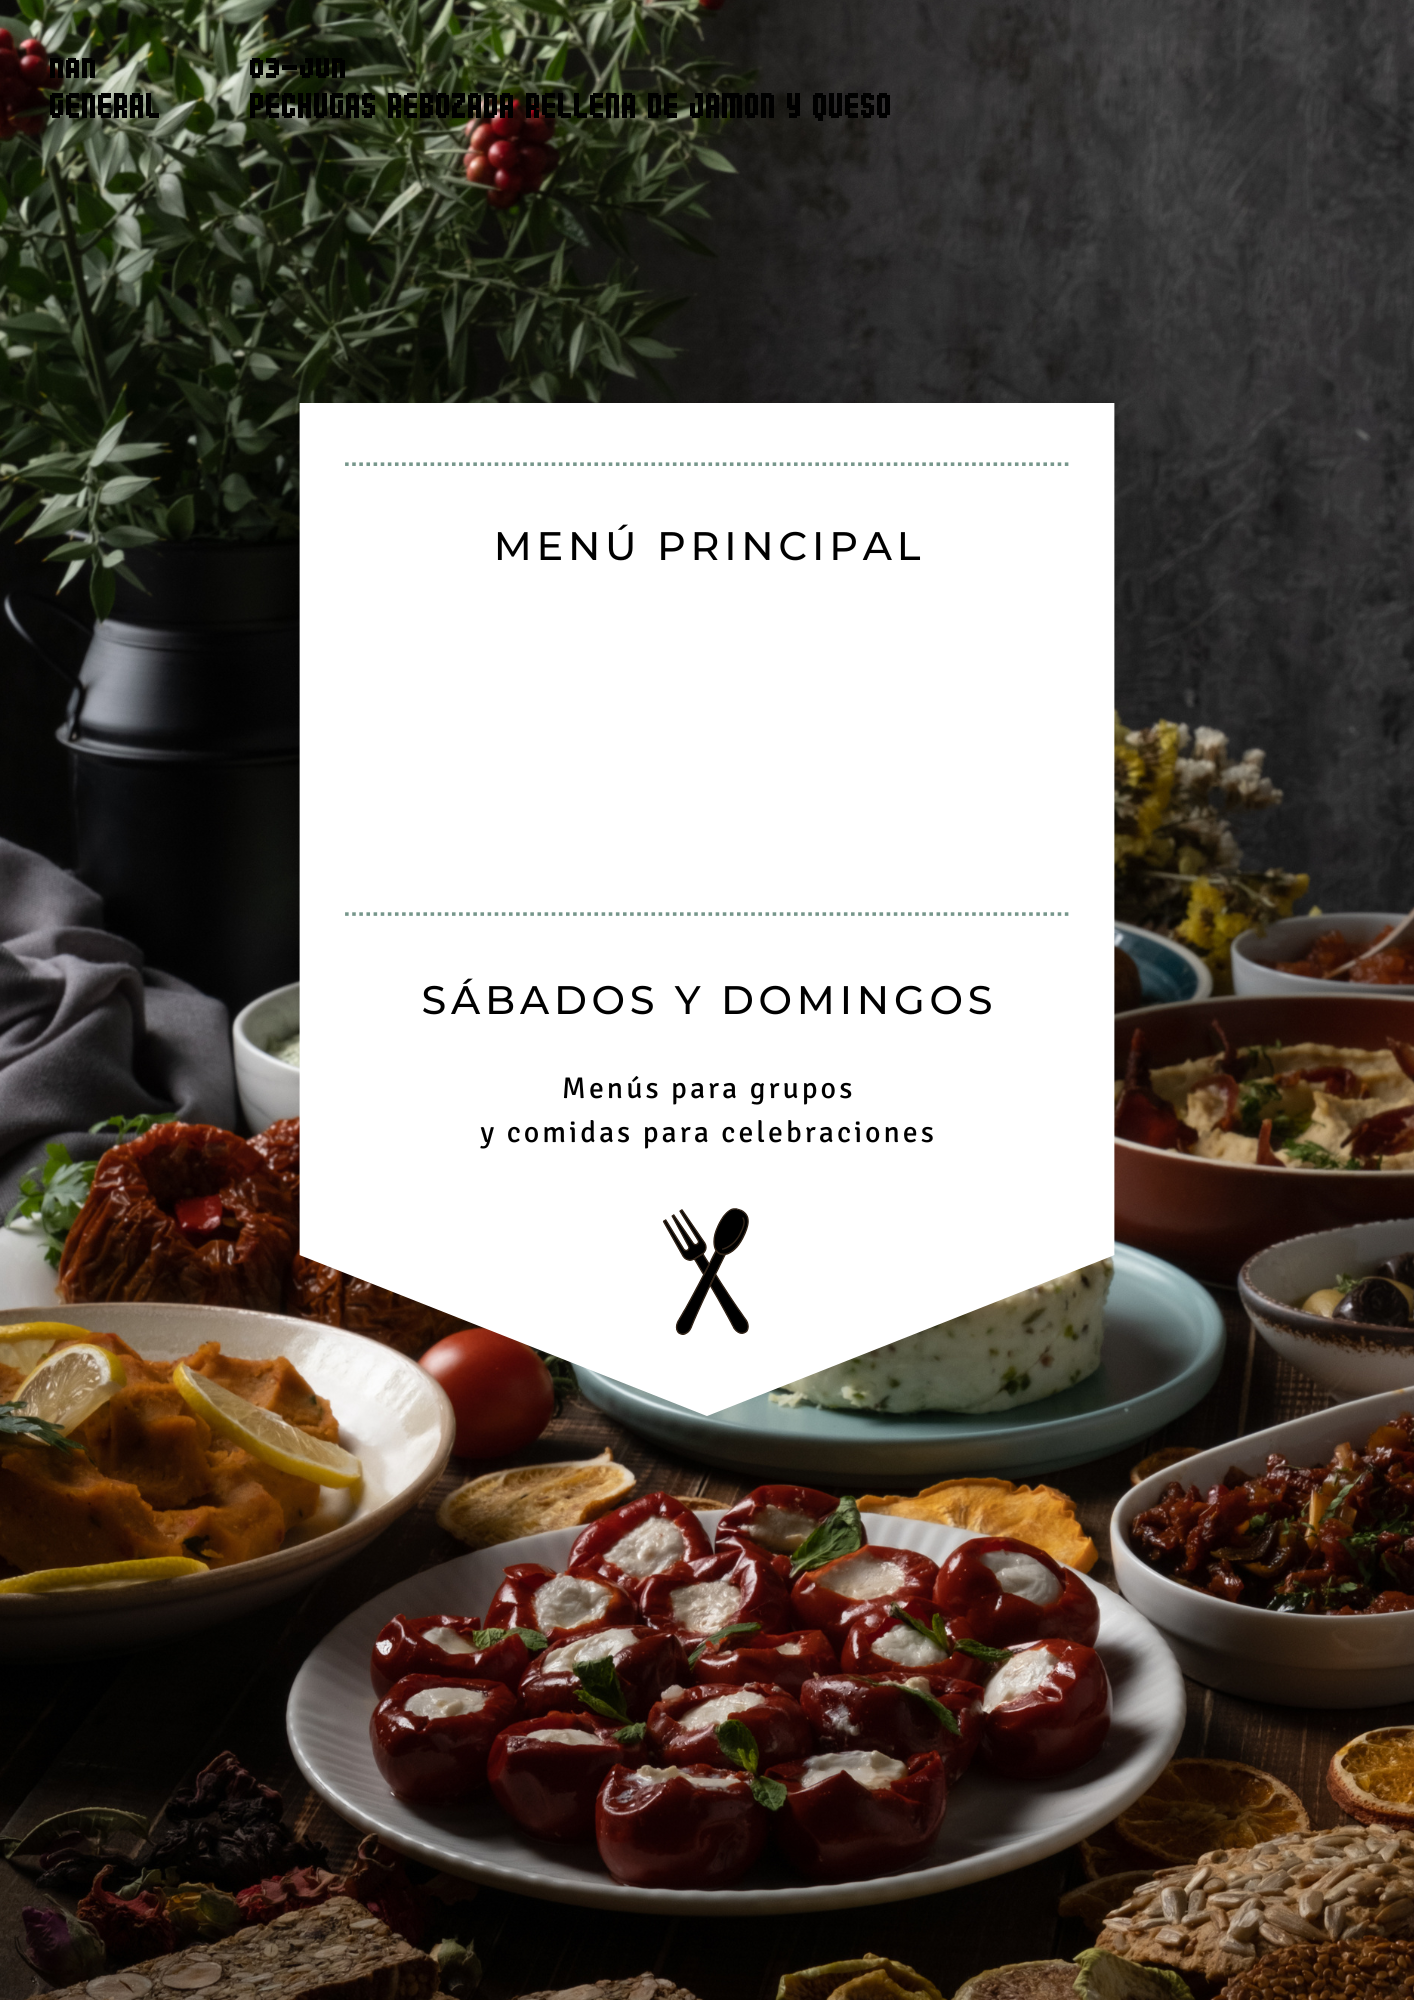
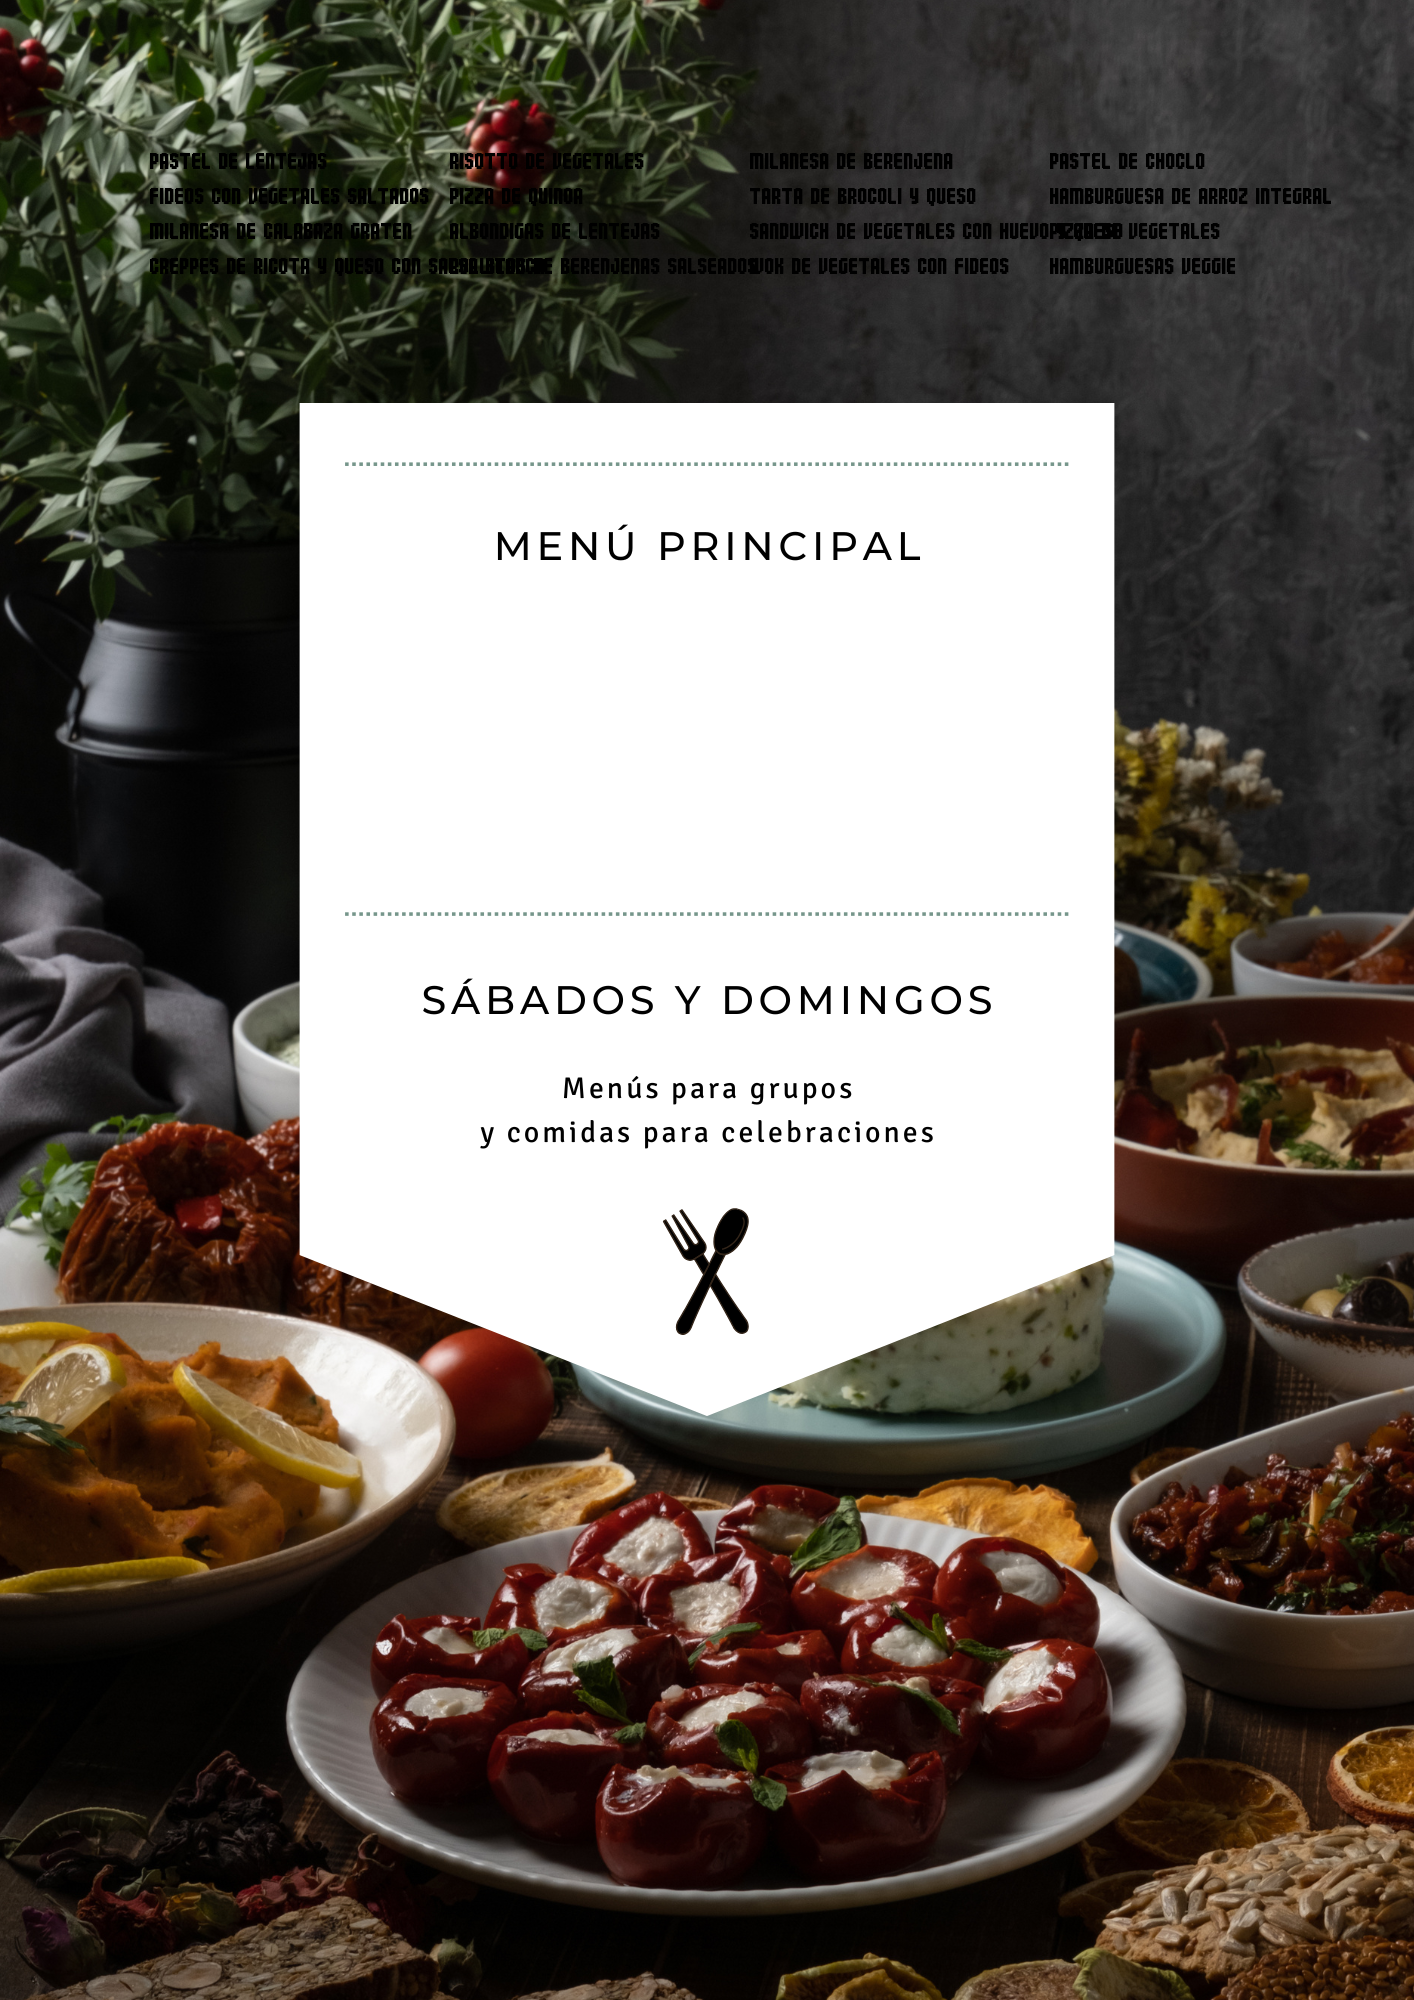
va_mejorando

Changed region(s): [[0.0311, 0.031, 0.9335, 0.155]]

diff --git a/otro.py b/otro.py
@@ -1,0 +1,37 @@
+import pandas as pd
+from PIL import Image, ImageDraw, ImageFont
+
+# Paso 1: Leer el archivo Excel
+excel_file = 'planilla.xlsx'
+df = pd.read_excel(excel_file)
+
+# Selección de filas y columnas específicas
+filas_a_extraer = [3, 9, 15, 21]  # Lista de filas que quieres extraer
+columnas_a_extraer = [1, 2, 3, 4]  # Lista de columnas que quieres extraer
+datos_a_colocar = df.iloc[filas_a_extraer, columnas_a_extraer]
+
+# Paso 2: Configuración inicial de la imagen
+imagen_base = 'menu.png'
+img = Image.open(imagen_base)
+draw = ImageDraw.Draw(img)
+font_size = 20  # Reduce el tamaño de la fuente
+fuente = ImageFont.truetype('fuente.ttf', size=font_size)
+
+# Posiciones iniciales y espaciado automático
+x_inicial, y_inicial = 150, 150  # Ajusta estas coordenadas para centrar el texto en el área en blanco
+espacio_vertical = font_size + 15  # Aumenta el espacio entre filas
+espacio_horizontal = 300           # Aumenta el espacio entre columnas
+
+# Generar y dibujar texto automáticamente
+for i, fila in enumerate(datos_a_colocar.itertuples(index=False)):
+    for j, valor in enumerate(fila):
+        # Calcular posiciones basadas en `i` y `j`
+        x = x_inicial + j * espacio_horizontal
+        y = y_inicial + i * espacio_vertical
+        draw.text((x, y), str(valor), fill="black", font=fuente)
+
+# Guardar la imagen final
+nueva_imagen = 'nueva_imagen.png'
+img.save(nueva_imagen)
+
+print(f"Imagen guardada como {nueva_imagen}")

diff --git a/borrador.py b/borrador.py
@@ -18,7 +18,7 @@ font_size = 30
 fuente = ImageFont.truetype('fuente.ttf', size=font_size)
 
 # Posiciones iniciales y espaciado automático
-x_inicial, y_inicial = 50, 50
+x_inicial, y_inicial = 400, 400
 espacio_vertical = font_size + 10  # Espacio entre filas
 espacio_horizontal = 200           # Espacio entre columnas
 
